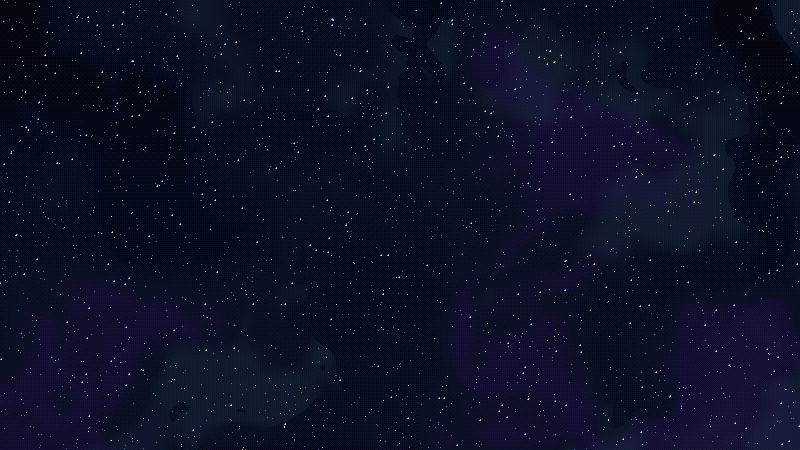
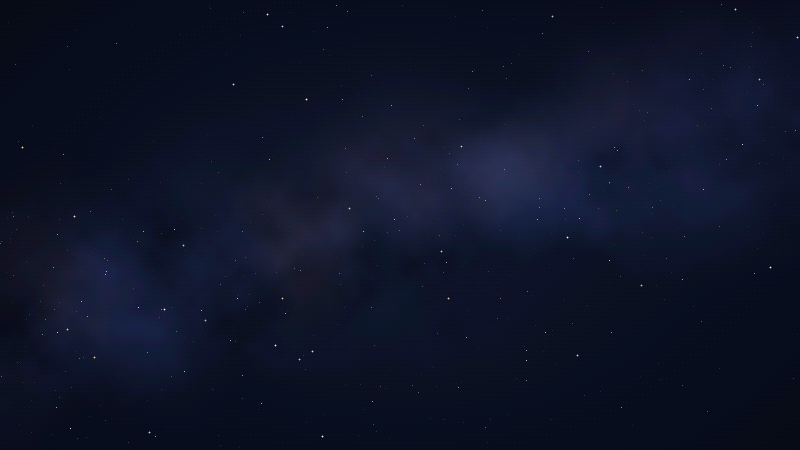
Festőibb, természetesebb Föld (égkék légkör, alkonysáv, meleg fény, mélyülő tenger) és nyugodt, új éjszakai ég
Claude-Session: https://claude.ai/code/session_01T6sPwaPiVjASr8DLyjC9bo

diff --git a/tools/hatter.py b/tools/hatter.py
@@ -1,0 +1,80 @@
+"""AETHER – a játék háttere (assets/nebula_bg.png), teljesen kódból: saját, programmal generált kép.
+
+Nyugodt, természetes éjszakai ég: mély kék alap, nagyon halvány, festett csillagköd-sáv (mint a Tejút
+szabad szemmel), kevés, különböző fényességű csillag. Nem valós felvétel és nem csillagtérkép.
+
+Futtatás:  python tools/hatter.py   (kell hozzá: numpy, Pillow)
+"""
+from pathlib import Path
+
+import numpy as np
+from PIL import Image
+
+W, H = 800, 450
+rng = np.random.default_rng(2026)
+
+
+def noise(scale: int) -> np.ndarray:
+    """Lágy zaj: kis véletlen rács, simán felnagyítva."""
+    small = rng.random((H // scale + 2, W // scale + 2)).astype(np.float32)
+    img = Image.fromarray((small * 255).astype(np.uint8)).resize((W, H), Image.BICUBIC)
+    return np.asarray(img, dtype=np.float32) / 255.0
+
+
+def fbm() -> np.ndarray:
+    out = np.zeros((H, W), np.float32)
+    amp, tot = 1.0, 0.0
+    for scale in (160, 80, 40, 20, 10):
+        out += noise(scale) * amp
+        tot += amp
+        amp *= 0.55
+    return out / tot
+
+
+yy, xx = np.mgrid[0:H, 0:W].astype(np.float32)
+u, v = xx / W, yy / H
+# alap: mély éjkék, középen egy árnyalattal világosabb (a Föld mögött), a széleken sötétebb
+r2 = ((u - 0.5) * 1.15) ** 2 + ((v - 0.5) * 1.0) ** 2
+base = np.stack([0.022 + 0.030 * np.exp(-r2 * 3.0), 0.036 + 0.046 * np.exp(-r2 * 3.0), 0.082 + 0.078 * np.exp(-r2 * 3.0)], -1)
+
+# halvány, ferde köd-sáv: két zajréteg adja a foltjait, a színe kékeslila, helyenként meleg porszínnel
+band_pos = (v - 0.5) * 0.93 + (u - 0.5) * 0.42
+band = np.exp(-(band_pos / 0.20) ** 2)
+n1, n2, n3 = fbm(), fbm(), fbm()
+cloud = np.clip((n1 - 0.38) * 2.2, 0.0, 1.0) * band
+dust = np.clip((n2 - 0.50) * 2.6, 0.0, 1.0) * band
+cool = np.array([0.10, 0.17, 0.33], np.float32)
+violet = np.array([0.17, 0.13, 0.28], np.float32)
+warm = np.array([0.26, 0.17, 0.14], np.float32)
+tint = cool[None, None, :] * (1.0 - n3[..., None]) + violet[None, None, :] * n3[..., None]
+img = base + tint * cloud[..., None] * 0.62 + warm[None, None, :] * dust[..., None] * 0.30
+# sötét porsávok a ködben: ettől lesz mélysége
+img *= (1.0 - 0.35 * np.clip((fbm() - 0.52) * 3.0, 0.0, 1.0) * band)[..., None]
+
+# csillagok: sok halvány, kevés fényes; a köd-sávban sűrűbben
+count = 520
+sx = rng.integers(0, W, count * 3)
+sy = rng.integers(0, H, count * 3)
+keep = rng.random(count * 3) < (0.25 + 0.75 * band[sy, sx])
+sx, sy = sx[keep][:count], sy[keep][:count]
+mag = rng.random(len(sx)) ** 3.2                      # a legtöbb halvány
+hue = rng.random(len(sx))
+for x, y, m, h in zip(sx, sy, mag, hue):
+    col = np.array([1.0, 0.86, 0.70]) if h < 0.18 else (np.array([0.74, 0.84, 1.0]) if h > 0.55 else np.array([0.95, 0.96, 1.0]))
+    b = 0.16 + 0.84 * m
+    img[y, x] = np.maximum(img[y, x], col * b)
+    if m > 0.86:                                      # a néhány legfényesebb: kis, lágy kereszt
+        for dx, dy in ((1, 0), (-1, 0), (0, 1), (0, -1)):
+            x2, y2 = x + dx, y + dy
+            if 0 <= x2 < W and 0 <= y2 < H:
+                img[y2, x2] = np.maximum(img[y2, x2], col * b * 0.42)
+
+# enyhe, rendezett szemcse és színlépcső: festett pixelgrafika hatás
+bayer = np.array([[0, 8, 2, 10], [12, 4, 14, 6], [3, 11, 1, 9], [15, 7, 13, 5]], np.float32) / 16.0
+d = np.tile(bayer, (H // 4 + 1, W // 4 + 1))[:H, :W, None]
+levels = 48.0
+img = np.floor(np.clip(img, 0.0, 1.0) * levels + d) / levels
+out = Path(__file__).resolve().parents[1] / "assets" / "nebula_bg.png"
+rgba = np.dstack([np.clip(img, 0.0, 1.0), np.ones((H, W, 1), np.float32)])
+Image.fromarray((rgba * 255).astype(np.uint8), "RGBA").save(out)
+print(out, img.mean())
